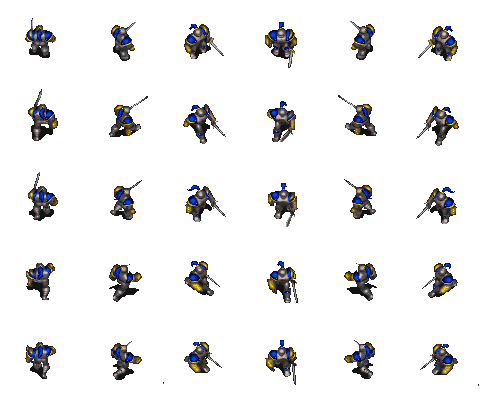
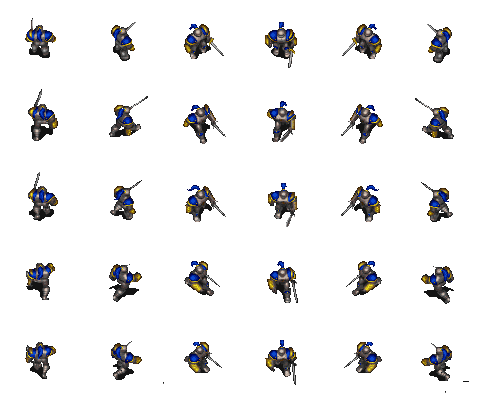
animations + movement direction done

diff --git a/project/src/game/Mechanics.java b/project/src/game/Mechanics.java
@@ -22,6 +22,8 @@ public class Mechanics {
 	 */
 	public static boolean hit(Board board, Unit attacker, Unit defender) {
 		// If P(hit) is larger than value generated deal damage
+		attacker.setDirection(findNewDirection(board.getDimension(), attacker.getPosition(), defender.getPosition()));
+		defender.setDirection(findNewDirection(board.getDimension(), defender.getPosition(), attacker.getPosition()));
 		if (Math.random() < hitChance(board, attacker, defender)) {
 			attacker.hasAttacked();
 			defender.damaged(attacker.pwr);
@@ -67,12 +69,59 @@ public class Mechanics {
 	 * @param goal  the Tile the unit is moving to
 	 */
 	public static void move(Board board, Unit unit, Tile goal) {
-		unit.getPosition().removeUnit();
+		Tile current = unit.getPosition();
+		current.removeUnit();
 		unit.moveTo(goal);
+		unit.setDirection(findNewDirection(board.getDimension(), current, goal));
 		goal.fill(unit);
 		if (!unit.anyAttackable(board)) {
 			unit.hasAttacked();
 		}
 		unit.hasMoved();
+	}
+	
+	public static int findNewDirection(int dim, Tile current, Tile goal) {
+		int curCol = current.getCol();
+		int curRow = current.getRow();
+		int goalCol = goal.getCol();
+		int goalRow = goal.getRow();
+		// If we're moving right
+		if (curCol < goalCol) {
+			if (curCol < dim-1) {
+				if (curRow == goalRow) {
+					return Unit.FACE_UR;
+				} else {
+					return Unit.FACE_DR;
+				}
+			} else {
+				if (curRow == goalRow) {
+					return Unit.FACE_DR;
+				} else {
+					return Unit.FACE_UR;
+				}
+			}
+		// If we're moving left
+		} else if (curCol > goalCol) {
+			if (curCol < dim) {
+				if (curRow == goalRow) {
+					return Unit.FACE_DL;
+				} else {
+					return Unit.FACE_UL;
+				}
+			} else {
+				if (curRow == goalRow) {
+					return Unit.FACE_UL;
+				} else {
+					return Unit.FACE_DL;
+				}
+			}
+		// If we're moving vertical
+		} else {
+			if (curRow > goalRow) {
+				return Unit.FACE_UP;
+			} else {
+				return Unit.FACE_DOWN;
+			}
+		}
 	}
 }

diff --git a/project/src/game/units/Unit.java b/project/src/game/units/Unit.java
@@ -4,13 +4,19 @@ import game.board.Board;
 import game.board.Tile;
 
 public abstract class Unit {
+
+	public final static int FACE_UP = 0;
+	public final static int FACE_UR = 1;
+	public final static int FACE_DR = 2;
+	public final static int FACE_DOWN = 3;
+	public final static int FACE_DL = 4;
+	public final static int FACE_UL = 5;
 	
-	/**
-	 * Number of stances unit has (up, upright, upleft, downright, downleft, down)
-	 */
 	public final static int ORIENTATIONS = 6;
 	
-	public final static int WALK_DURATION = 5;
+	public final static int WALK_FRAMES = 5;
+	
+	public final static int WALK_DURATION = 225;
 	
 	public final static int ATT_DURATION = 4;
 	
@@ -19,6 +25,7 @@ public abstract class Unit {
 	/**
 	 * 
 	 */
+	protected int direction;
 	
 	/**
 	 * Race of the unit, orc is true (1), human is false (0).
@@ -95,6 +102,7 @@ public abstract class Unit {
 		activeMove = false;
 		activeAttack = false;
 		position = null;
+		direction = FACE_DOWN;
 	}
 	
 	/**
@@ -197,6 +205,14 @@ public abstract class Unit {
 
 	public String toString() {
 		return name;
+	}
+	
+	public int getDirection() {
+		return direction;
+	}
+	
+	public void setDirection(int direction) {
+		this.direction = direction;
 	}
 
 }
